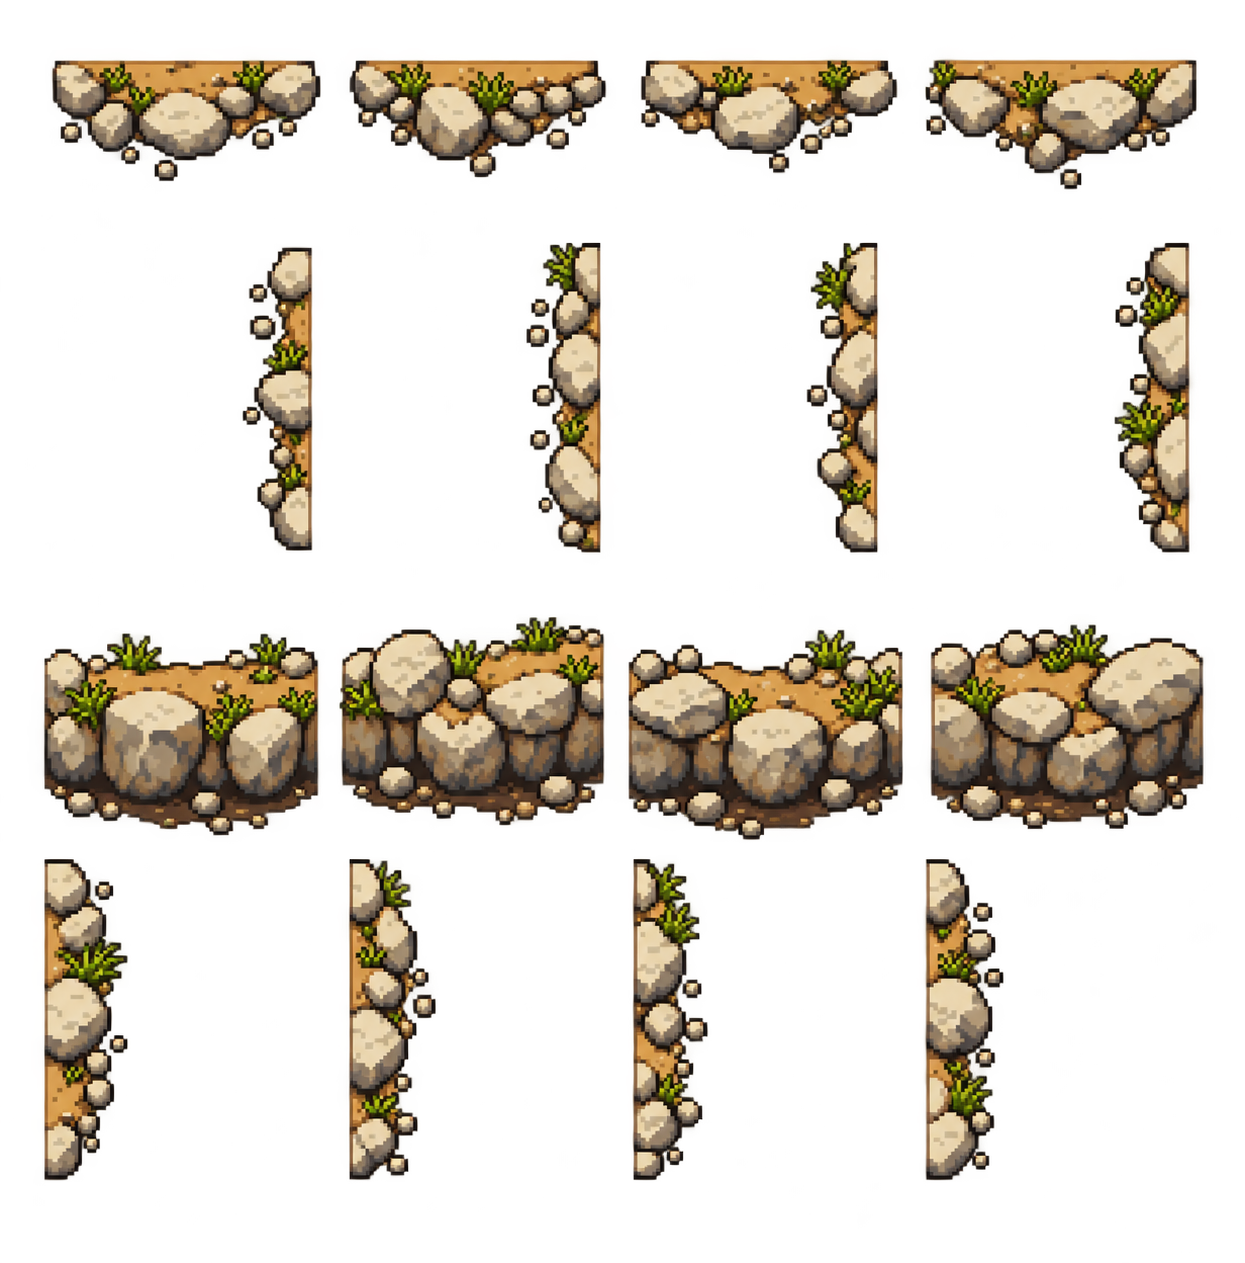
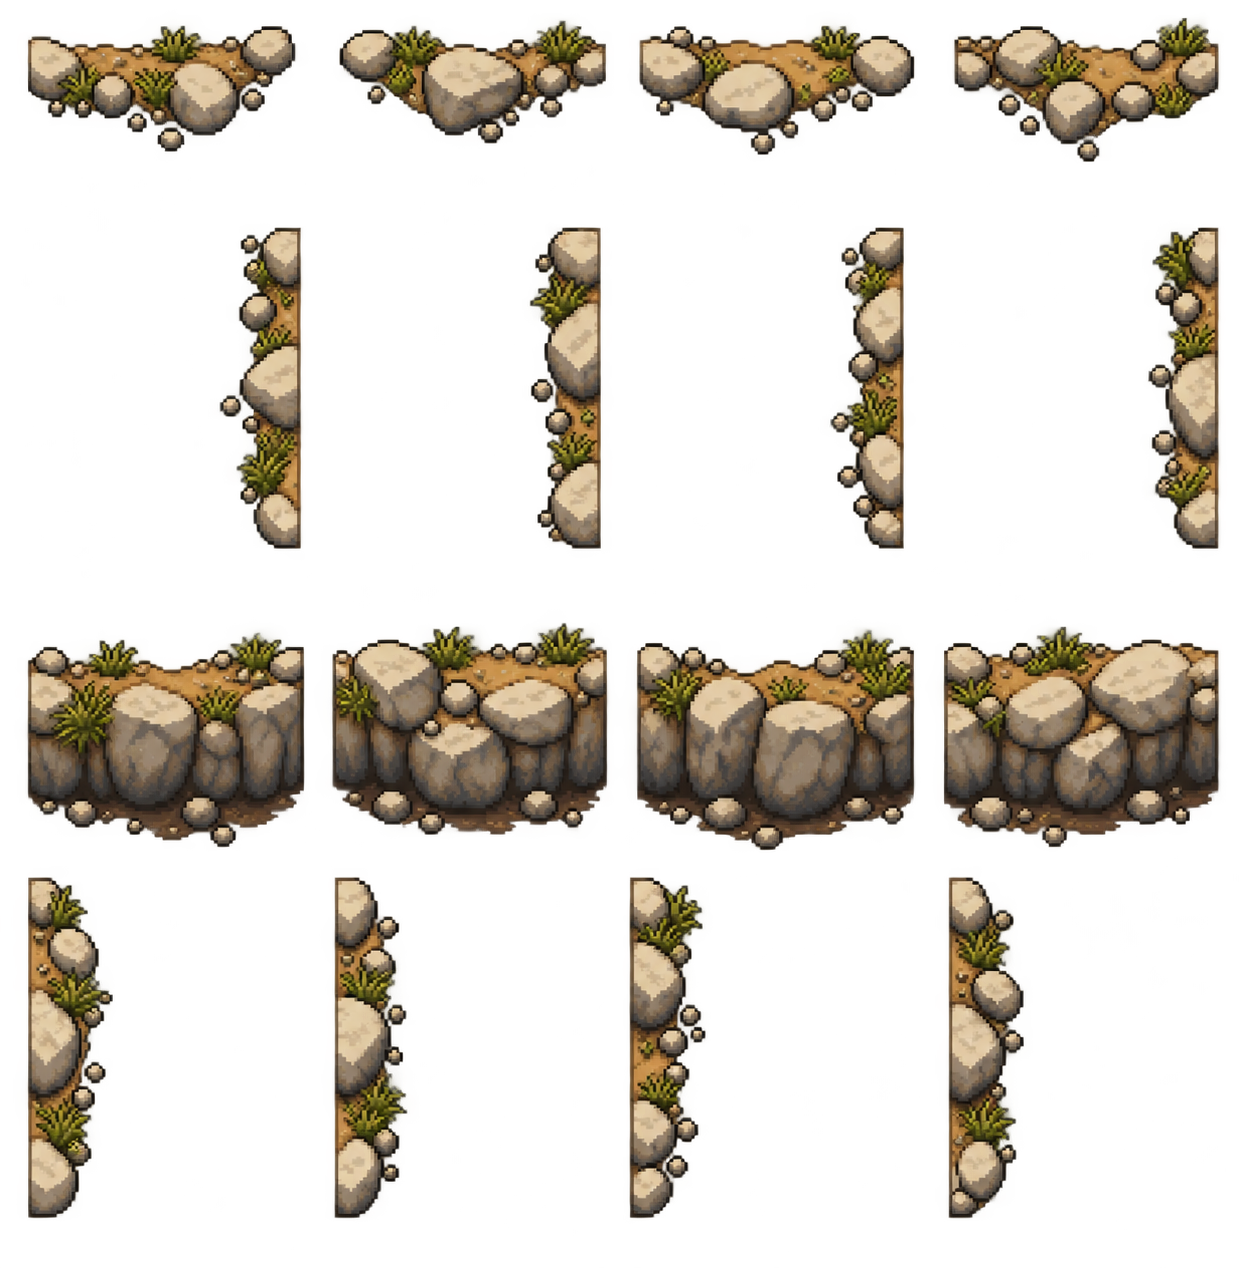
Re-roll the cliff edges: the lip has rock in it now
Two sentences the prompt lacked, both landing on the first re-roll. The lip must
show rock and not only the soil above it -- the old source drew its stone below
the soil, and a lip is the top fifth of the cell, so the crop took the part with
no stone in it. And a side strip is a vertical stack of rounded boulders rather
than horizontal layers, which at 28px wide had been reading as streaks.

Slices with no fallback on either sheet. Corners meet bands at 47-56 against
48-58, inside the tear's own variation.

A second candidate was rejected on a measurement worth keeping: its gutters were
true magenta (252,0,248) but the background inside each cell was pale pink
(223,149,198). Two different colours, and the pink sits just under the keyer's
chroma bar, so it would have survived as an opaque fill in every cell. A chroma
key is one colour or it is not a key. Its fourth row was wrong too -- mixed left,
right and bottom pieces where the row is left edges only.

Claude-Session: https://claude.ai/code/session_01D8x5ENxGr4me3CAJaTyiPE

diff --git a/docs/props-and-rims-plan.md b/docs/props-and-rims-plan.md
@@ -122,9 +122,16 @@ they match by construction. `Gemini_Stones.png` is superseded and has moved to
 **What is still worth a re-roll, recorded rather than hidden.** The south face is better than what
 it replaced — bigger boulders, a real soil base, more contrast. Two things are not:
 
-- **The north lip crops to soil and grass with no rock in it.** The source draws its rock below the
-  soil, and a lip is the top fifth of the cell, so the crop takes the part with no stone in it. The
-  prompt lacked one sentence: *the lip must show rock, not only the soil above it.*
+- ~~**The north lip crops to soil and grass with no rock in it.**~~ **Fixed by a re-roll.** The
+  source had drawn its rock *below* the soil, and a lip is the top fifth of the cell, so the crop
+  took the part with no stone in it. Two sentences the prompt lacked did it: *the lip must show
+  rock, not only the soil above it*, and *a side strip is a vertical stack of rounded boulders,
+  never horizontal layers*. Both landed on the first re-roll.
+
+  A third candidate was rejected on a measurement worth recording: its gutters were true magenta
+  `(252, 0, 248)` but the background *inside* each cell was pale pink `(223, 149, 198)` — two
+  different colours. That pink sits just under the keyer's chroma bar, so it would have survived as
+  an opaque fill in every cell. **A chroma key is one colour or it is not a key.**
 - **The corner pieces sit lighter than the south band they continue.** Measured, the corners match
   the edge sheet as a whole almost exactly — `[141, 119, 83]` against `[145, 118, 81]` — so they are
   not off-palette. It is the *south row* that is deliberately darker at `[112, 92, 70]`, which is
